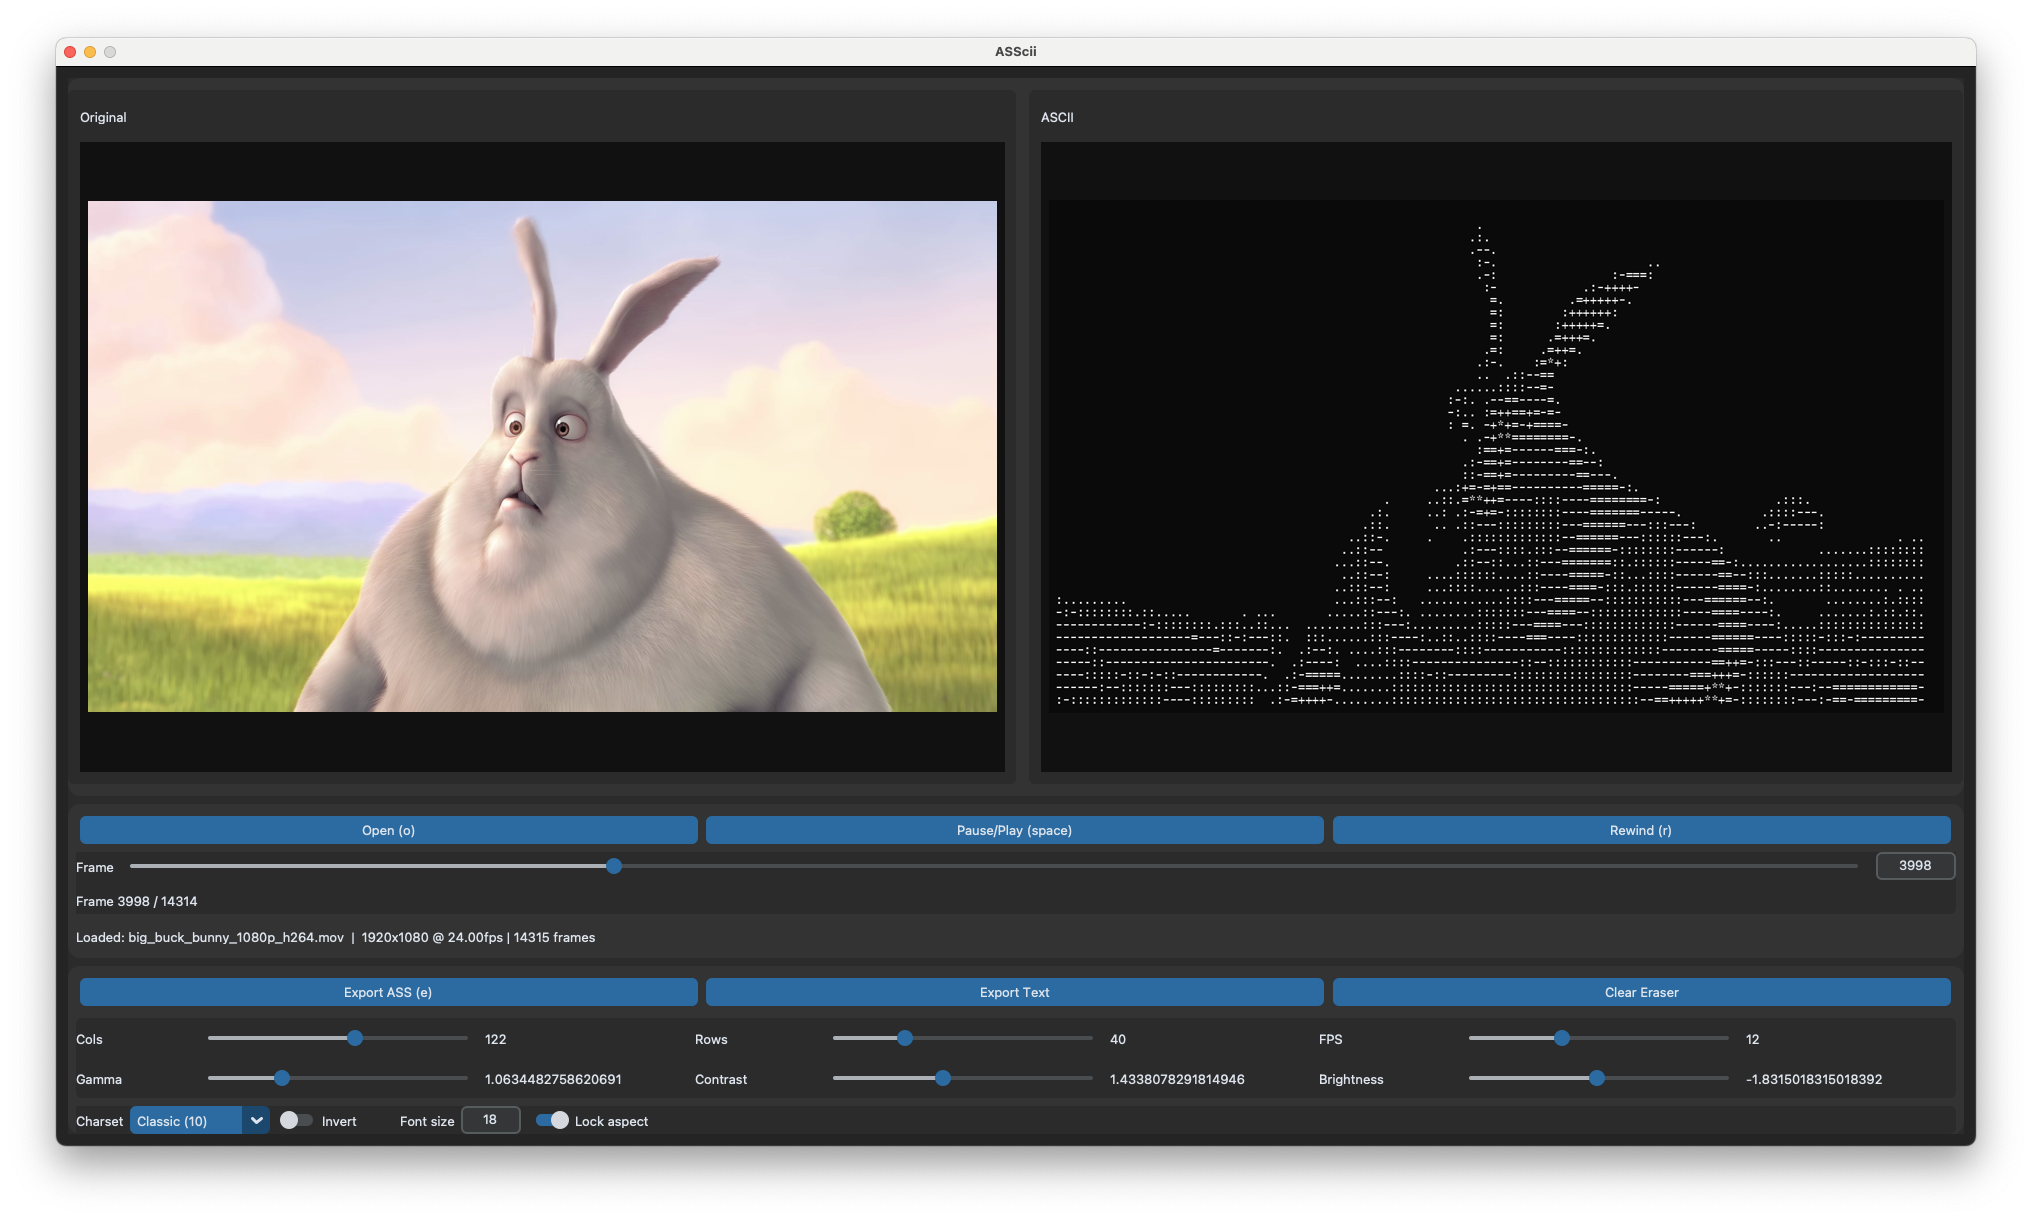
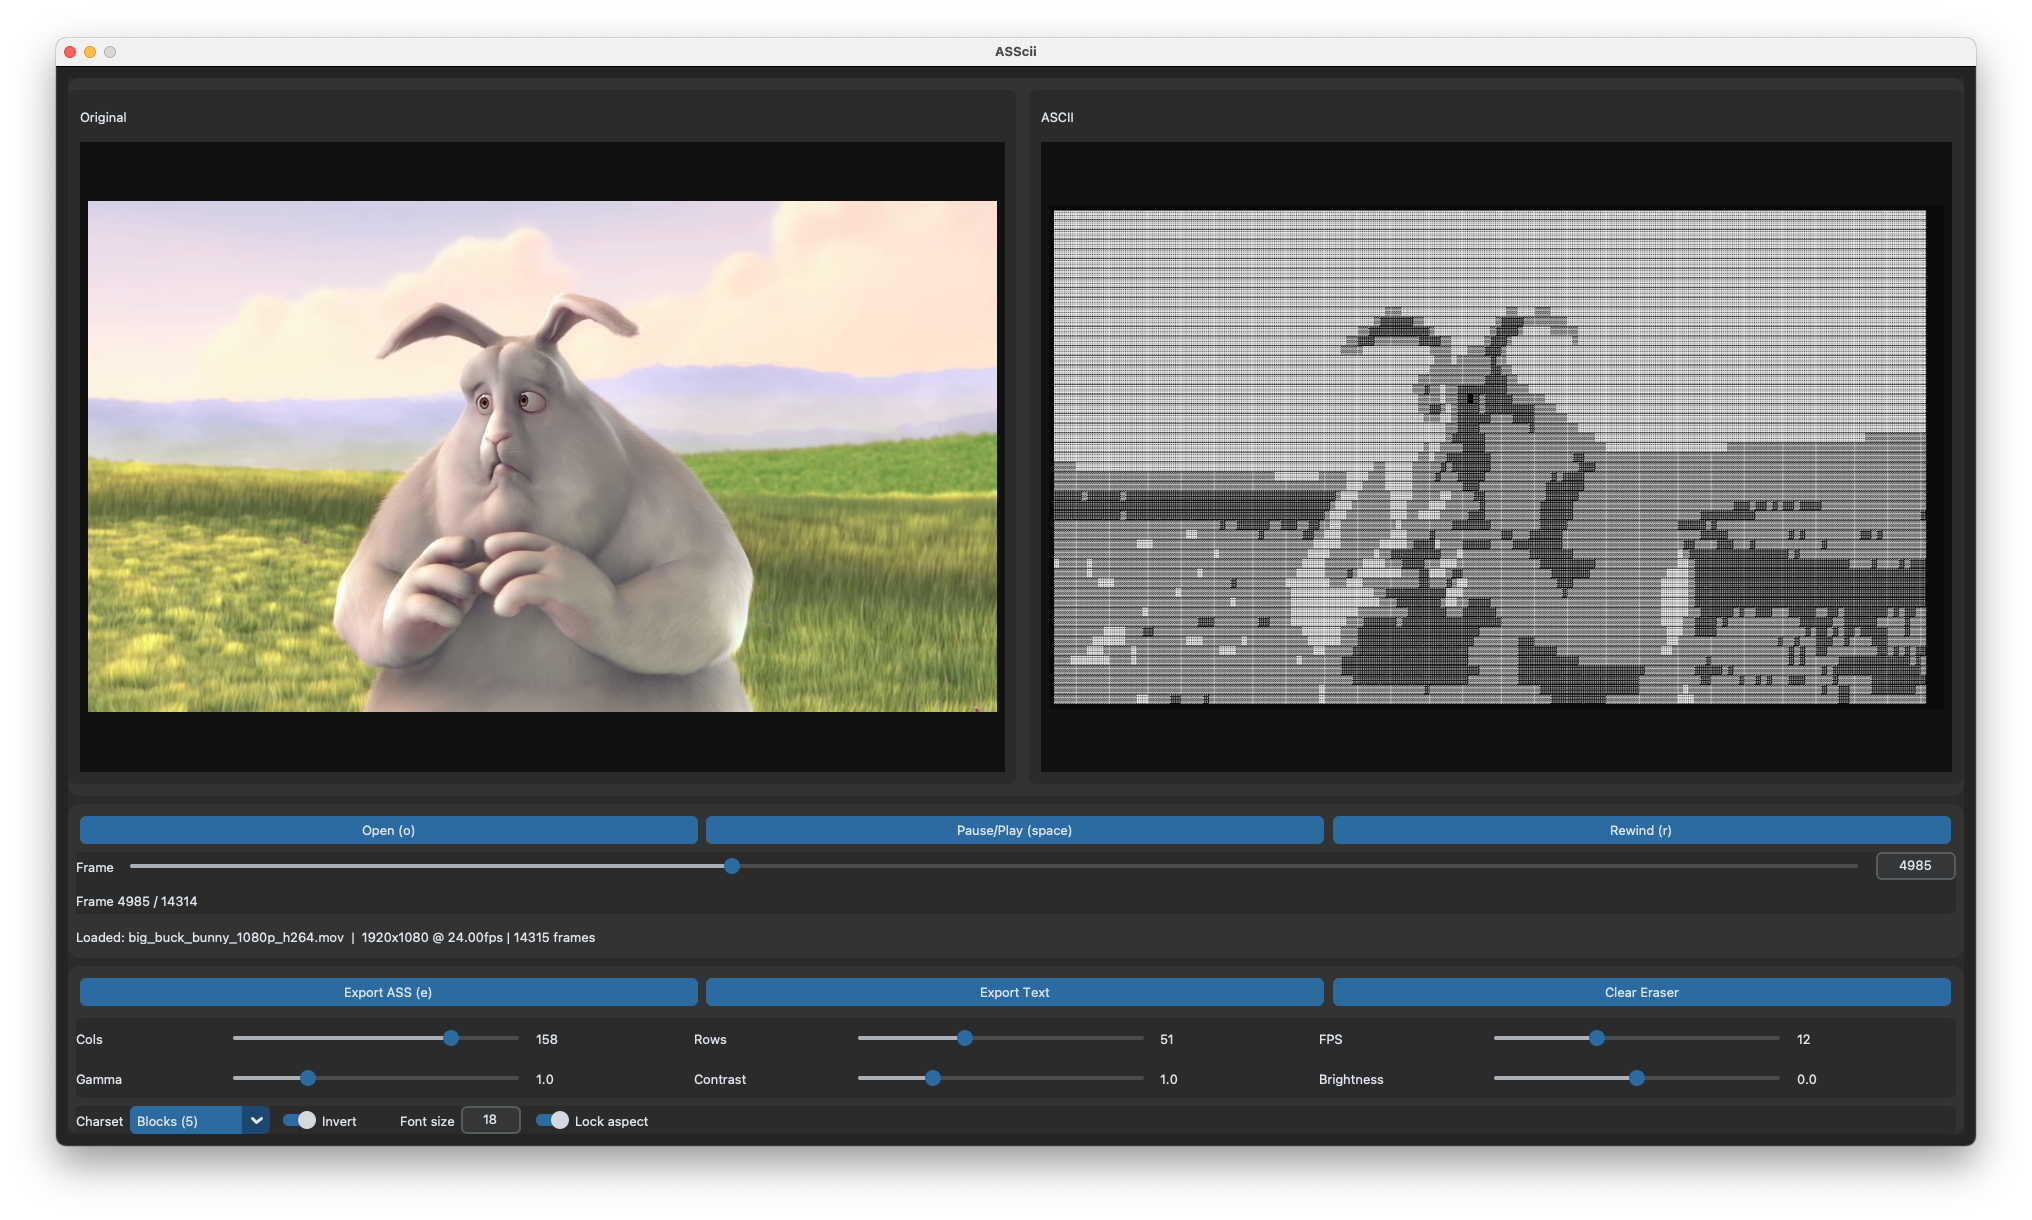
fix ui setting

diff --git a/ascii_core.py b/ascii_core.py
@@ -23,7 +23,7 @@ class AsciiParams:
     rows: int = 45
     fps: float = 12.0
     charset_name: str = "Blocks (5)"
-    invert: bool = False
+    invert: bool = True
     gamma: float = 1.0
     contrast: float = 1.0
     brightness: float = 0.0  # -100..100
